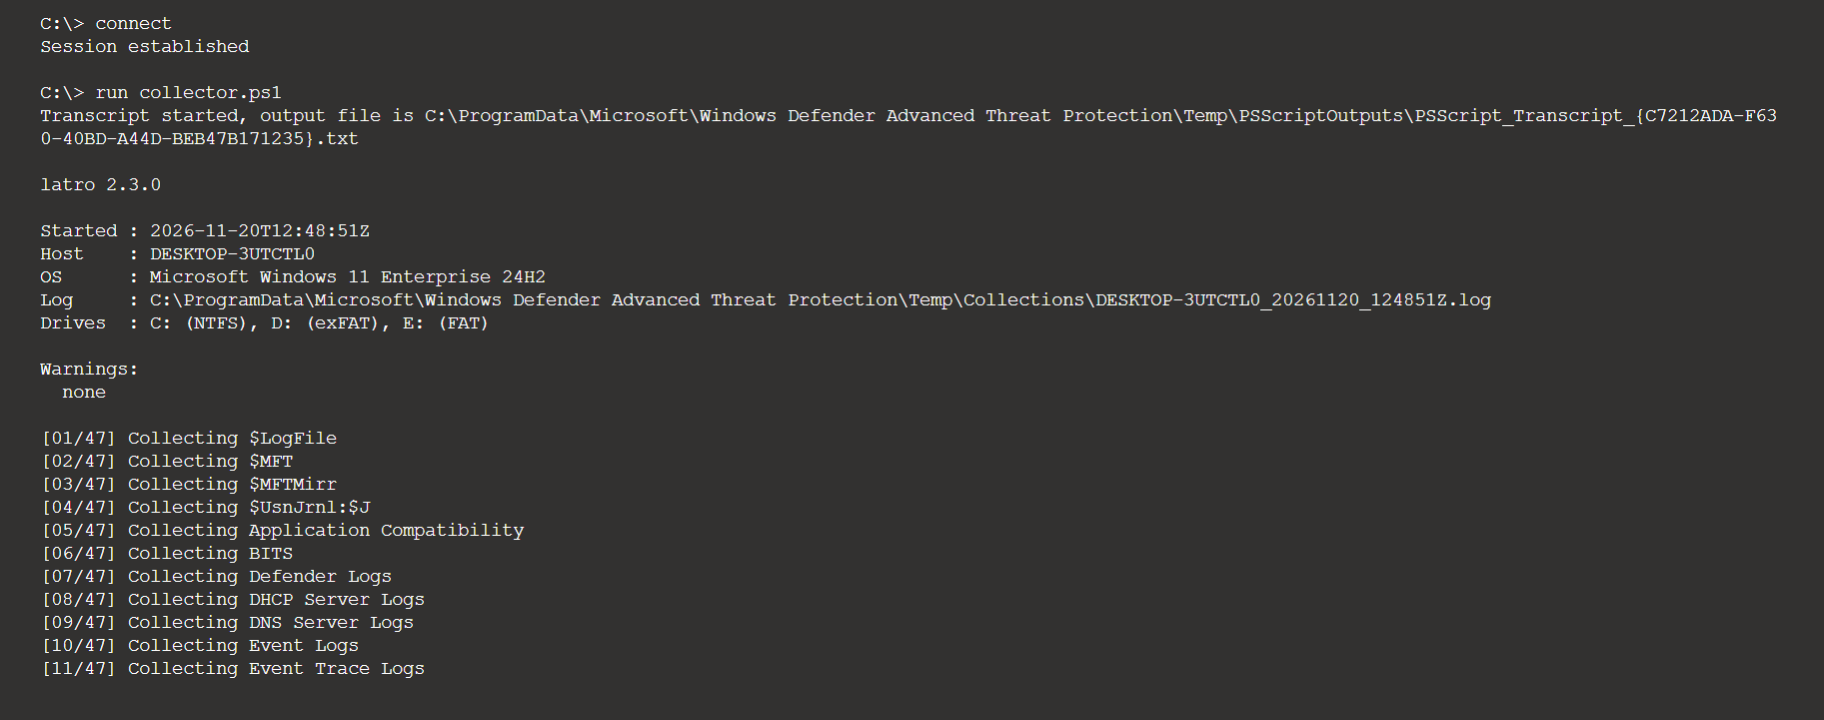
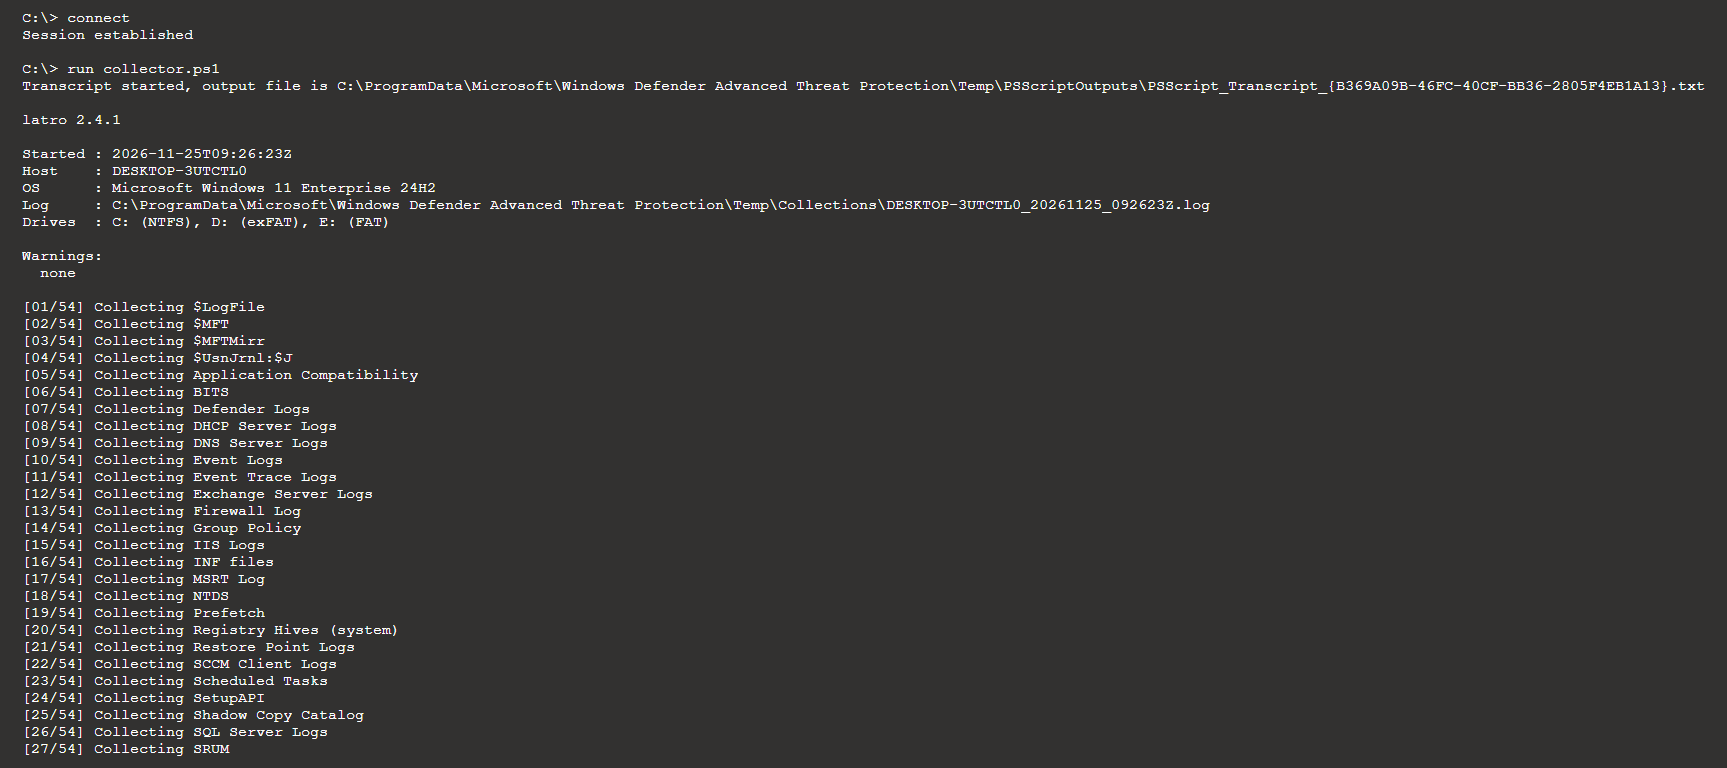
README: the Live Response pictures from a run of 2.4.1; the run-log caption names 2.4.0

Changed region(s): [[0.0, 0.0, 0.982, 0.9778]]

diff --git a/README.md b/README.md
@@ -34,7 +34,7 @@ it open, says exactly what it couldn't, and moves on. For a comprehensive
 collection, including locked files and raw NTFS artefacts, use a full
 collector such as KAPE or the Velociraptor Offline Collector.
 
-![Live Response console: connect, run collector.ps1 and Live Response's transcript line, then latro 2.3.0, its header fields (the UTC start time, the host, the OS, the run log's path and the drives searched), the Warnings section reading none, and the first 11 of its 47 progress lines, one per artefact](docs/images/live-response-run.webp)
+![Live Response console: connect, run collector.ps1 and Live Response's transcript line, then latro 2.4.1, its header fields (the UTC start time, the host, the OS, the run log's path and the drives searched), the Warnings section reading none, and the first 27 of its 54 progress lines, one per artefact](docs/images/live-response-run.webp)
 
 A run in a Live Response session (Windows 11 Enterprise 24H2, as SYSTEM).
 
@@ -392,9 +392,9 @@ they hold only records is not yet settled.
 
 ## Reading the summary
 
-![Live Response console: the end of the run - the last two lines of the artefact summary (WER and Windows Timeline), the number of files collected with the zip's size in MiB, the getfile command for the zip, its SHA-256 and the getfile command for the run log](docs/images/live-response-summary.webp)
+![Live Response console: near the end of the run - the last 19 lines of the artefact summary (Browser Saved Logins to Windows Timeline: counts collected, not accessible with the note requires NTFS parser, and Missing), the number of files collected with the zip's size in MiB, the getfile command for the zip, its SHA-256 and the getfile command for the run log](docs/images/live-response-summary.webp)
 
-The end of the same run.
+The same run's summary, up to the getfile line for the run log.
 
 At the end come the Warnings again, the artefact summary and the lists under
 it (folders not listed, copies whose size differs), the total
@@ -460,7 +460,7 @@ are not counted either.
 ![Notepad: the run log beside the zip - latro and its version, the header fields (the UTC start time, the host, the OS, the run log's path and the drives searched), the Warnings section and the first 48 of its 54 progress lines, one per artefact](docs/images/run-log.webp)
 
 The zip in Explorer, from a test machine run before 2.3.0, and the run log
-in Notepad, from 2.3.0 (an elevated run, so its one warning).
+in Notepad, from 2.4.0 (an elevated run, so its one warning).
 
 - The zip holds the files as they were read during the run, at that point in
   time, under their original paths. The SHA-256 printed with it identifies
